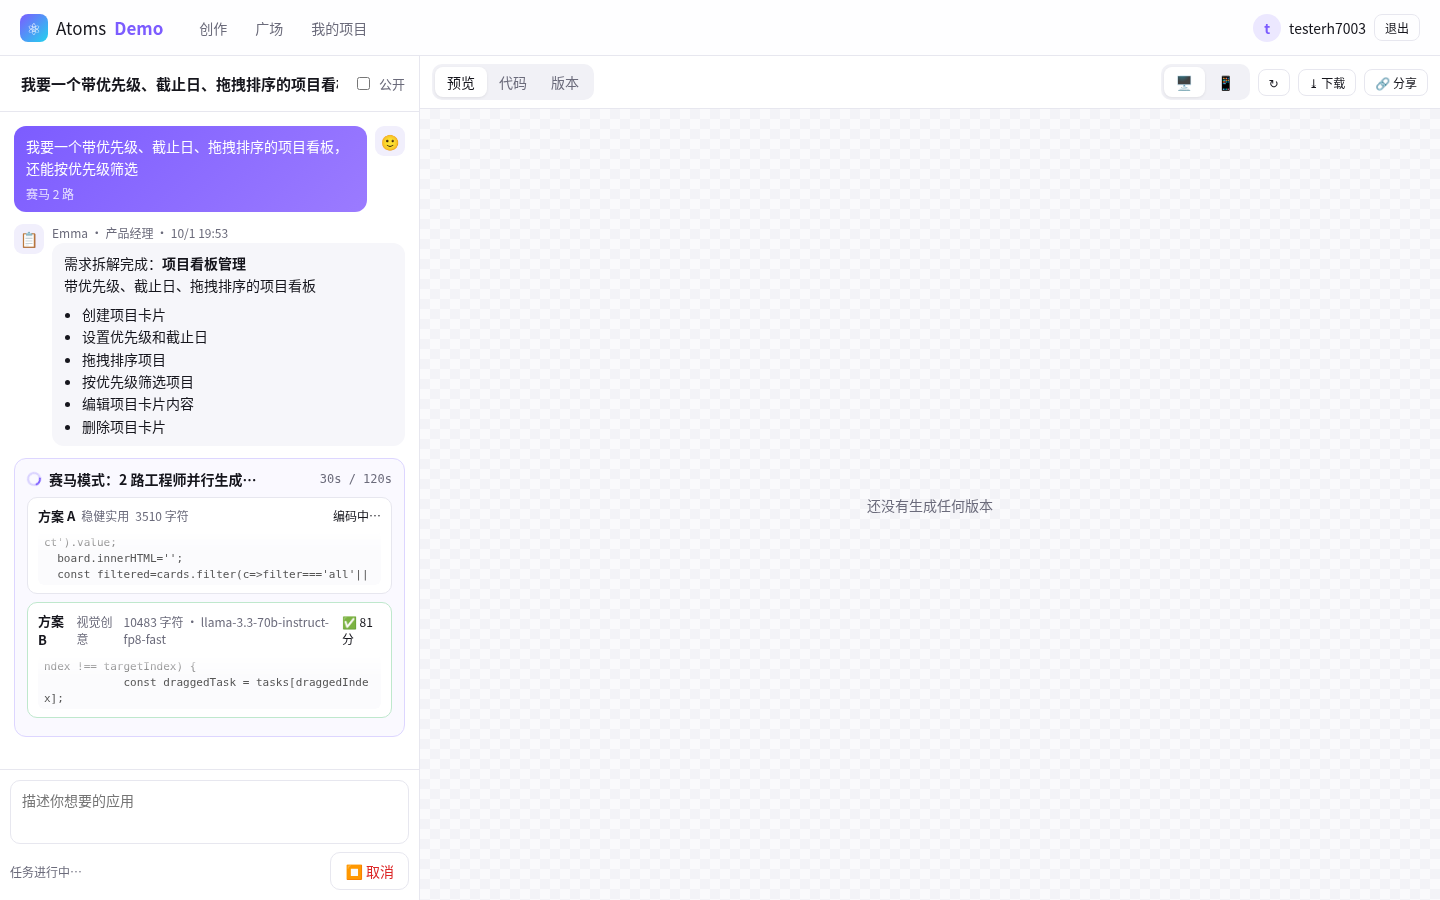
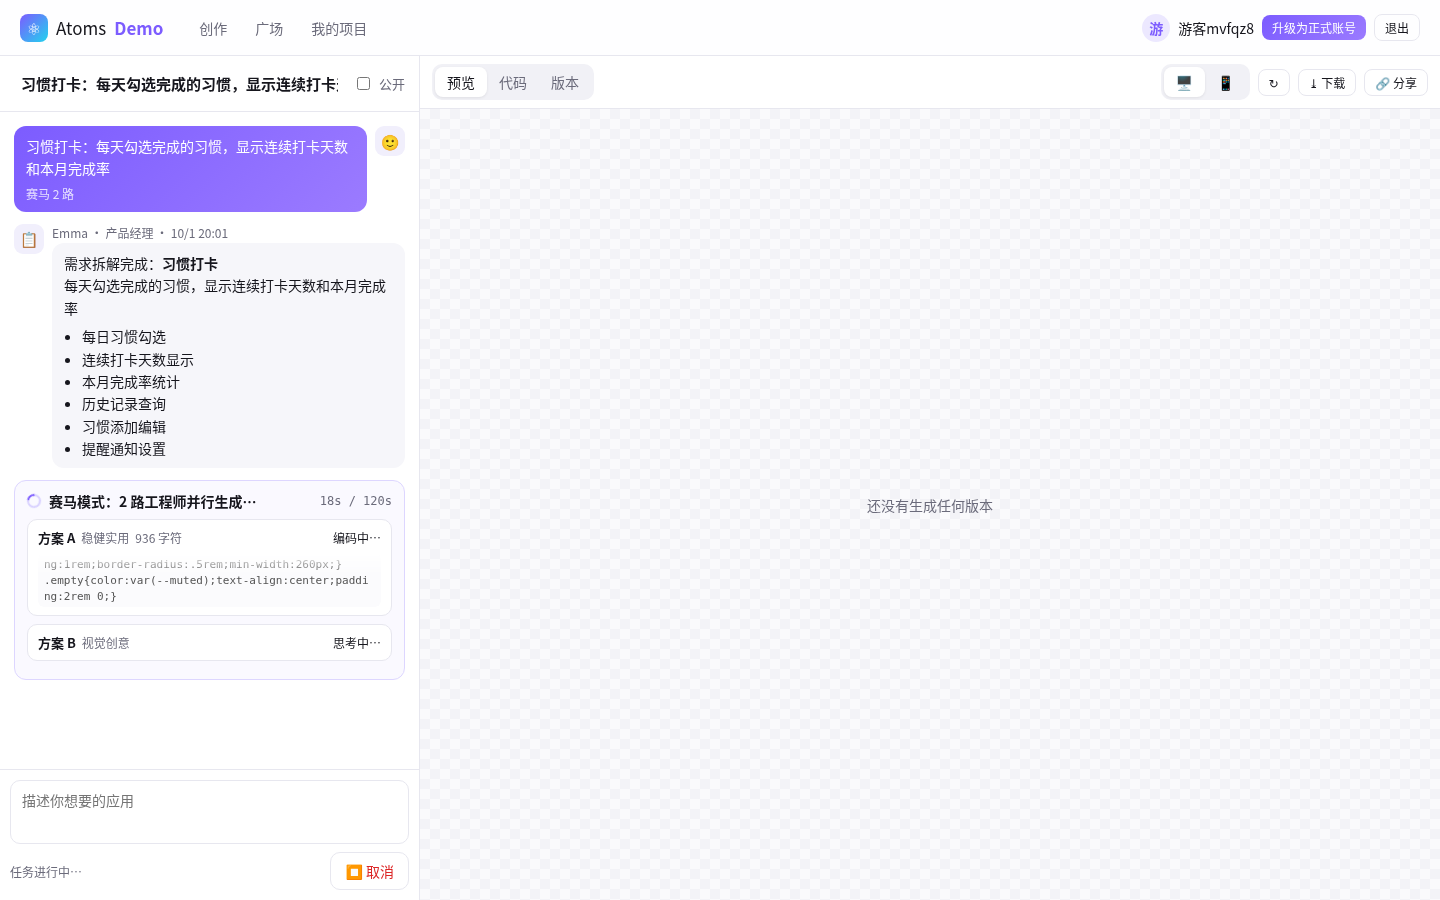
Docs, README, race tuning, screenshots

diff --git a/README.md b/README.md
@@ -1,0 +1,106 @@
+# Atoms Demo · 一句话生成可运行的网页应用
+
+> 在线体验：**https://atoms-demo-writing-test.ctq2013.workers.dev**（不用登录，可以直接点「游客体验」）
+
+输入一句需求，多个智能体协作生成一个**能打开、能点、能存数据**的单文件网页应用。生成结果在沙箱里实时预览，可以继续用对话做增量修改、回滚版本、下载或分享，也能发布到作品广场。
+
+```
+① 一句话需求 → ② Planner 拆解 → Engineer×N 赛马编码 → QA 校验打分择优
+            → ③ iframe 沙箱实时预览 → ④ 项目 / 版本 / 对话 / 任务状态全部落库
+```
+
+## 功能一览
+
+| 模块 | 说明 |
+| --- | --- |
+| 注册 / 登录 / 游客 | 用户名密码注册（PBKDF2 哈希），也可以一键游客体验；游客之后能**升级为正式账号，项目不丢** |
+| 多智能体流水线 | 📋 Planner 把需求拆成结构化规格 → 💻 Engineer 编码 → 🧪 QA 做静态校验并评分；过程（阶段、实时代码流、重试日志、计时）全程可见 |
+| **赛马模式（亮点）** | 1–3 路工程师并行（不同设计取向和温度，第 3 路换模型），错峰启动防 429。按可解释的 9 项评分自动择优，悬停能看到细项；落选方案保留为「候选」，可以一键采用。首个方案合格后，其余赛道有 50s 宽限，超时就提前收敛，避免拖慢整体 |
+| 对话式**增量**迭代 | 模型只输出 SEARCH/REPLACE 补丁，在本地应用，不会全量重吐。补丁必须全部命中，QA 也要通过才落库（原子性），失败时保留上一版。快速模型先试，补丁不合格再自动升级到强模型。每个任务限时 120s，可随时取消，前端显示计时 |
+| 运行时自愈 | 预览 iframe 捕获 JS 运行时错误后回传，可点「让 AI 修复」走增量修复 |
+| 版本管理 | 每次生成、修改、采用、回滚都会产生新版本，历史不覆盖；任何版本都能预览或回滚 |
+| 预览沙箱 | `sandbox` iframe，不给同源权限，生成的代码拿不到本站登录态；注入的 Storage 桥让沙箱内的 `localStorage` 照常可用，并按项目持久化，**刷新后应用内数据还在** |
+| 分享 / 导出 / 广场 | `/s/:id` 独立分享页（CSP sandbox 隔离）；下载独立 HTML；公开到作品广场，他人可 Fork 后继续修改；广场预置 5 个官方示例，打开第一眼就有东西看 |
+| 永不白屏（四层防线） | 节流（错峰）→ 重试（指数退避 1s/2s/4s + 抖动，最多 3 次）→ 备用模型通道 → **内置模板降级**（5 套手写的完整可用模板，加上规则引擎做「换色、深色、改标题、字号、圆角」类修改）。前端标注「AI 生成 / 备用模型 / 演示模式」 |
+| 故障演练 | 生成选项里可以手动模拟「主模型 429」「全部模型不可用」，现场验证降级链路；也可以勾选「演示模式」完全不调用模型 |
+| 任务状态落库 | 生成任务用 `waitUntil` 在后台跑完并写库，刷新页面能自动恢复进度；心跳超时的任务自动标记中断 |
+
+## 技术栈
+
+- **运行平台**：Cloudflare Workers（免费、自带 https、不需要备案），同一个 Worker 托管静态前端和 API
+- **数据持久化**：Durable Object 内置 SQLite，强一致、随部署持久保存，不存在“免费实例重启丢库”的问题
+- **大模型**：Workers AI（通过 binding 调用，代码里**没有任何 API Key**）
+  - 主模型 `@cf/openai/gpt-oss-120b`：负责编码，质量最好
+  - 备用 / 快速模型 `@cf/meta/llama-3.3-70b-instruct-fp8-fast`：负责需求拆解、增量补丁和备用通道
+  - 模型名都放在 `wrangler.toml` 的 `[vars]` 里，改配置就能换
+- **前端**：原生 ES Module + CSS，不需要构建；后端是原生 JS，测试用 Node 内置 `node:test`
+
+## 目录结构
+
+```
+src/
+  index.js            # Worker 入口：路由、鉴权、SSE 流式任务、分享页
+  store.js            # Durable Object(SQLite)：用户/会话/项目/版本/消息/任务 + 预置示例
+  agents/
+    pipeline.js       # Planner → Engineer×N(赛马) → QA/Judge；Editor 增量迭代；降级兜底
+    llm.js            # 流式调用、首包/停滞/总预算超时、取消、重试退避、备用通道、故障演练
+    prompts.js        # 各智能体提示词
+  lib/
+    patch.js          # SEARCH/REPLACE 补丁解析与应用（精确 + 宽松行匹配）
+    qa.js             # 静态 QA（截断/结构/脚本闭合）+ 可解释评分
+    designSystem.js   # atoms-ui 基础样式库：生成后注入，统一视觉下限、缩短模型输出
+    auth.js html.js
+  templates/          # 5 套降级模板（看板/房贷计算器/个人主页/番茄钟/通用记录）+ 规则引擎
+public/
+  index.html app.js styles.css
+  shim.js             # 预览沙箱 Storage 桥 + 运行时错误回传（前后端共用）
+test/core.test.js     # 单元测试（补丁、QA、模板、规则修改、沙箱注入、设计系统）
+docs/笔试说明文档.md   # 提交用的说明文档草稿
+screenshots/          # 线上自测截图
+```
+
+## 本地运行
+
+需要 Node.js ≥ 22，以及一个 Cloudflare 账号（免费版即可）。
+
+```bash
+npm install
+npm test                 # 单元测试
+npx wrangler login       # 首次使用时登录 Cloudflare
+npm run dev              # 本地开发：http://localhost:8787（Workers AI 走远程调用，会消耗账号额度）
+npm run deploy           # 部署到 <name>.<subdomain>.workers.dev
+```
+
+- 没有 Cloudflare 账号或模型额度时，在 `wrangler.toml` 里设 `AI_DISABLED = "1"`，或者在页面勾选「演示模式」，整个流程照样能跑完并出预览。
+- 不需要 `.env`，也不需要任何 API Key。
+
+## 设计思路与关键取舍
+
+1. **先保证“链接活着、闭环跑通、不会白屏”，再堆亮点。** 选 Workers + Durable Object(SQLite) + Workers AI，一次部署就同时解决 https 访问、持久化存储和模型调用，没有冷启动、免费实例休眠、临时文件系统、Key 泄露这类常见坑。
+2. **产物是单文件 HTML。** 可以直接用 iframe 运行，也能下载后双击打开，最容易验证“真的能跑”。代价是不支持多文件或后端工程，这是有意的范围控制。
+3. **只把赛马做深。** 赛马最能体现 Atoms 的特点：用并行和择优换质量与稳定性。评分规则可解释、可复现，没用 LLM 当评委，省额度也省时间；代价是对“视觉美观”只能间接衡量，所以加了设计系统注入来拉齐视觉下限。
+4. **迭代走真增量。** 输出 token 少，不会撞上限、不会卡死；配合原子落库和版本快照，“改一次崩一次”的问题从机制上就规避了。
+5. **安全隔离。** 生成的代码属于不可信内容，所以预览和分享页都放在无同源的沙箱里运行，持久化通过宿主桥接实现。
+
+## 排障记录
+
+| # | 遇到的坑 | 定位过程 | 解决方式 | 验证结果 |
+| --- | --- | --- | --- | --- |
+| 1 | 笔试飞书文档用 curl 拿不到内容 | 返回的是 passport 登录页 HTML（含 `window.passportSettings`） | 改用无头 Chrome 渲染，逐块滚动采集正文 | 拿到完整题目，并与官方避坑指南交叉核对 |
+| 2 | `wrangler deploy` 报 “requires Node.js ≥ 22” | 本机 Node 是 v20 | 下载 Node 22 便携版来跑 wrangler，`package.json` 里声明 `engines` | 部署成功 |
+| 3 | 刚部署完访问返回 `error code: 1101` | 用 `wrangler tail` 看实时日志，后续请求恢复正常，判断是部署传播期间的瞬时异常 | 加上 `observability` 日志；之后部署完都等几秒再验证 | 后续访问全部正常 |
+| 4 | 调试用的 API Token 没有 D1/KV 权限（`Authentication error`） | 逐个调接口确认只有 Workers Scripts 权限 | 改用 **Durable Object 内置 SQLite** 做持久化，它随脚本迁移创建，不需要额外权限 | 刷新、重部署后数据都在 |
+| 5 | 赛马时 B 路 gpt-oss 连续出现「输出停滞」，整个任务拖满 120s | SSE 日志显示 A 路 57s 完成，B 路两次 35s 无数据 | ① 加入“首个合格方案出现后宽限 N 秒就提前收敛”；② 每条赛道都有可 race 的中止器（取消或收敛时立刻生效，不用等读超时） | 2 路赛马总耗时从 120s 降到 60–75s |
+| 6 | 增量修改耗时 85s，不符合“轻量修改 1 分钟内返回” | gpt-oss 带推理，补丁小但首包慢 | 迭代改用快速模型先出补丁；补丁未全部命中就自动升级到强模型（原子性：部分命中也不落库） | 换色 2–8s，加一个统计条 17–27s |
+| 7 | 快速模型的补丁 “3 处未匹配已忽略” 仍被落库，可能产生半成品 | 查看 SSE 日志里的 failed 计数 | QA 闸门改为“补丁必须全部命中”，否则整体不落库或升级模型 | 单测覆盖补丁失败不破坏原文 |
+| 8 | llama 的产物分数比 gpt-oss 高，实际观感却更差 | 分项分数显示两者都拿满结构、交互、持久化分 | 评分加入交互丰富度、二元组需求覆盖、实现完整度，在注入设计系统前打分；A/B 两路都用主模型 | 截图对比后，主模型方案胜出 |
+| 9 | 注入的基础样式库也定义了 `--primary`，规则换色改错了位置 | 检查生成结果里的 `--primary` 出现位置 | 规则换色改为全局替换；Editor 修改前先剥离基础样式库、落库前再注入 | 换色后线上预览颜色正确 |
+| 10 | sandbox iframe（无同源）里 `localStorage` 抛 SecurityError，生成的应用存不了数据 | 在预览控制台复现 | 注入 Storage Proxy 垫片，通过 postMessage 回传宿主按项目持久化 | E2E：在预览里新建任务 → 刷新 → 任务仍在 |
+
+**AI 使用说明**：开发全程用 AI 编码代理辅助，包括方案设计、代码编写、模型对比实验和排障方向。所有结论都在线上实测或单测里验证过（见 `screenshots/` 和 `npm test`）。
+
+## 已知限制
+
+- Workers AI 免费额度约 1 万 neurons/天，按 2 路赛马估算大约能生成 30 次。额度用完会自动降级到演示模式，不会白屏。
+- 生成的应用限定为单文件前端，不支持多文件工程、npm 依赖或后端代码。
+- 分享页处于强隔离沙箱，应用内数据只保存在内存里（站内预览和下载的独立 HTML 都能持久化）。

diff --git a/docs/笔试说明文档.md b/docs/笔试说明文档.md
@@ -1,0 +1,80 @@
+# 【笔试】ROOT 全栈岗位 —— Atoms Demo ——（请填写你的名字）
+
+> 本文是笔试文档的草稿。请先在飞书里为官方说明文档「创建副本」，标题标注姓名，再把本文内容粘进副本末尾的「4. 笔试结果回收」处，并把文档权限设为**公开**。
+
+## 4. 笔试结果回收
+
+- **（必含）笔试文档**：<飞书副本链接，需设为公开>
+- **（必含）已部署的可测试链接**：https://atoms-demo-writing-test.ctq2013.workers.dev
+- **（必含）代码链接（GitHub）**：<https://github.com/<你的用户名>/atoms-demo，需设为 public>
+- （可选）AI coding 工具使用 / 充值账单：<如有，请填写，例如 Cursor Pro $20/月>
+
+### 快速体验路径（约 2 分钟）
+
+1. 打开在线链接，首页「作品广场」里预置了 5 个现成应用（看板、房贷计算器、个人主页、番茄钟、读书清单），点开就能直接使用。
+2. 在输入框里写一句需求（或点示例），保持「赛马 2 路」，点「开始生成」。系统会自动创建游客账号，之后可升级为正式账号且项目不丢。左侧能实时看到产品经理拆解需求、两路工程师并行写代码、测试评审打分择优；右侧预览区直接运行生成的应用。
+3. 在下方输入「把主色调换成蓝色」或「增加一个导出数据按钮」，走增量补丁修改。顶部「版本」页可以预览任意版本、回滚、采用落选的候选方案。
+4. 选项 → 故障演练选「全部模型不可用」后再生成：会自动降级为内置模板，照样产出一个完整可用的应用（标注“演示模式”）。
+5. 「🔗 分享」可复制独立分享链接，「⤓ 下载」可导出单文件 HTML，勾选「公开」后作品进入广场，其他人可以 Fork。
+
+---
+
+## 一、实现思路与关键取舍
+
+**最小闭环**：一句话需求 → 多智能体生成单文件 HTML 应用 → sandbox iframe 实时预览 → 项目、版本、对话和任务状态全部持久化。
+
+| 决策 | 选择 | 原因 / 取舍 |
+| --- | --- | --- |
+| 部署平台 | Cloudflare Workers（静态资源和 API 同一个 Worker） | 免费，自带 https，不用备案，没有冷启动和休眠；不需要维护服务器 |
+| 持久化 | Durable Object 内置 SQLite | 免费实例的文件系统是临时的，这是常见扣分点；DO SQLite 强一致、随部署长期保存，还能直接写 SQL |
+| 模型 | Workers AI：gpt-oss-120b（编码主力）+ llama-3.3-70b（拆解 / 补丁 / 备用） | 通过 binding 调用，代码和仓库里**零 API Key**；两个上游互为备份。对比了 7 个可用模型的速度和产物截图后选定 |
+| 产物形态 | 单文件 HTML（内联 CSS/JS，localStorage 持久化） | 能 iframe 运行，也能下载双击打开，“真能跑”最好验证；放弃多文件工程和后端，控制复杂度 |
+| 亮点方向 | **只把赛马模式做深**，迭代 / 版本 / 分享作为配套 | 赛马最贴 Atoms 的招牌能力。评分用 9 项可解释的规则（结构完整、交互、交互丰富度、持久化、移动端、脚本闭合、需求覆盖、视觉、完整度），没用 LLM 当评委，省额度也省时间 |
+| 视觉质量 | 生成后注入 atoms-ui 基础样式库，提示词要求模型使用其类名 | 免费档模型的审美参差不齐。注入后视觉下限统一，模型输出也更短更快（产物截图对比后才定下这个方案） |
+| 迭代方式 | **真增量**：SEARCH/REPLACE 补丁、原子落库、快模型先试再自动升级到强模型 | 避免全量重吐带来的截断和卡死；补丁没全部命中或 QA 不通过时都不落库，上一版保持不变 |
+| 稳定性 | 四层防线：错峰节流 → 指数退避重试（1/2/4s + 抖动，封顶 3 次）→ 备用模型 → 模板降级 | 上游 429 / 超时 / 额度耗尽都由我们自己兜底。所有异常都在任务层捕获，不会穿透成 500；前端标注 AI / 备用 / 演示模式 |
+| 超时与取消 | 单任务预算 120s，另有首包 45s、停滞 35s 超时；用户可随时取消 | 等待时有计时和实时代码流；取消约 1 秒内生效；任务状态落库，刷新后能恢复 |
+| 安全 | 生成代码运行在无同源的 sandbox iframe 里，分享页加 CSP sandbox | 生成代码属于不可信内容，不能读取宿主登录态；用 Storage 桥接让沙箱里的 localStorage 可用并按项目持久化 |
+| 账号 | 用户名密码（PBKDF2）+ 一键游客 + 游客升级 | 评审打开就能体验，不用先注册；需要长期保存时可以无损升级 |
+
+**多智能体分工**：📋 Emma（产品经理）把需求拆成结构化 JSON 规格 → 💻 Alex（工程师）×N 并行编码，分别是 A 稳健实用、B 视觉创意、C 极简（换模型）→ 🧪 Iris（测试与评审）做 QA 校验、打分、择优，落选方案保留为候选 → ✏ Alex（迭代）出增量补丁。
+
+## 二、当前完成程度
+
+**已完成（线上可测）**
+- 注册 / 登录 / 游客 / 游客升级；项目列表、重命名、删除
+- 需求拆解 → 1–3 路赛马生成 → QA 评分择优 → 候选方案一键采用
+- 流式进度：阶段、每路实时代码尾流、字符数、模型、重试日志、计时、取消
+- 增量修改（补丁）、原子落库、快模型到强模型的自动升级、超时与取消
+- 版本历史、任意版本预览、回滚（以新版本形式，历史不丢）
+- 预览：桌面 / 手机视图、代码查看与复制、运行时错误捕获 + 「让 AI 修复」
+- 预览内数据持久化（刷新后仍在）、分享页、下载 HTML、公开到广场、Fork
+- 作品广场预置 5 个官方示例（不依赖模型）
+- 降级：5 套模板 + 规则引擎；演示模式；故障演练（主模型 429 / 全部不可用）
+- 任务状态落库、刷新后恢复、心跳超时自动判定中断；每用户每小时 30 次生成限流、游客创建限流
+- 单元测试 10 项；线上 E2E 截图 20 张
+
+**线上实测数据**（2026-10-01）
+- 2 路赛马生成：36–75s
+- 轻量修改（换主色）：2–8s；新增一个功能区块：17–27s
+- 取消：约 1s 生效
+- 故障演练：主模型 429 时 24–32s 切到备用模型出结果；全部模型不可用时 6–7s 降级出模板应用
+
+**未做 / 已知限制**
+- 赛马评分是规则打分，对“美观程度”只能间接衡量，没有接入 LLM 评委或截图评审
+- 产物只支持单文件前端，不支持多文件工程、npm 依赖、后端或数据库
+- Workers AI 免费额度约 1 万 neurons/天（按 2 路赛马约 30 次），用完后自动进入演示模式
+- 分享页处于强隔离沙箱，应用内数据只保存在内存
+- 没有做团队协作、实时多人编辑、自定义域名
+
+## 三、如果继续投入时间（按优先级）
+
+1. **P0 评审质量**：加入“截图 + 视觉模型评审”或 LLM 评委，与规则分加权，解决“分数高但不好看”的问题；同时给赛马结果做左右对比预览。
+2. **P0 迭代体验**：补丁预览 diff（应用前确认）、按选区修改（在预览里点选元素，再描述要怎么改）、多轮修改的上下文压缩。
+3. **P1 产物能力**：多文件工程（Vite 模板）+ 在线构建；可选的后端数据 API（每个生成应用一个 KV / DO 命名空间），让生成的应用跨设备同步数据。
+4. **P1 成本与稳定性**：输出缓存（相同需求复用）、按用户的额度可视化、接入第二家模型平台作跨厂商备用通道。
+5. **P2 社区**：广场的点赞 / 排序 / 标签、模板市场、一键“基于此作品再创作”的需求继承。
+
+## 四、AI 工具使用说明
+
+全程用 AI 编码代理完成：方案设计、编码、模型横向对比、线上 E2E 自测和排障。逐条排障记录见仓库 README 的「排障记录」；所有结论都经过线上实测或单测验证。
